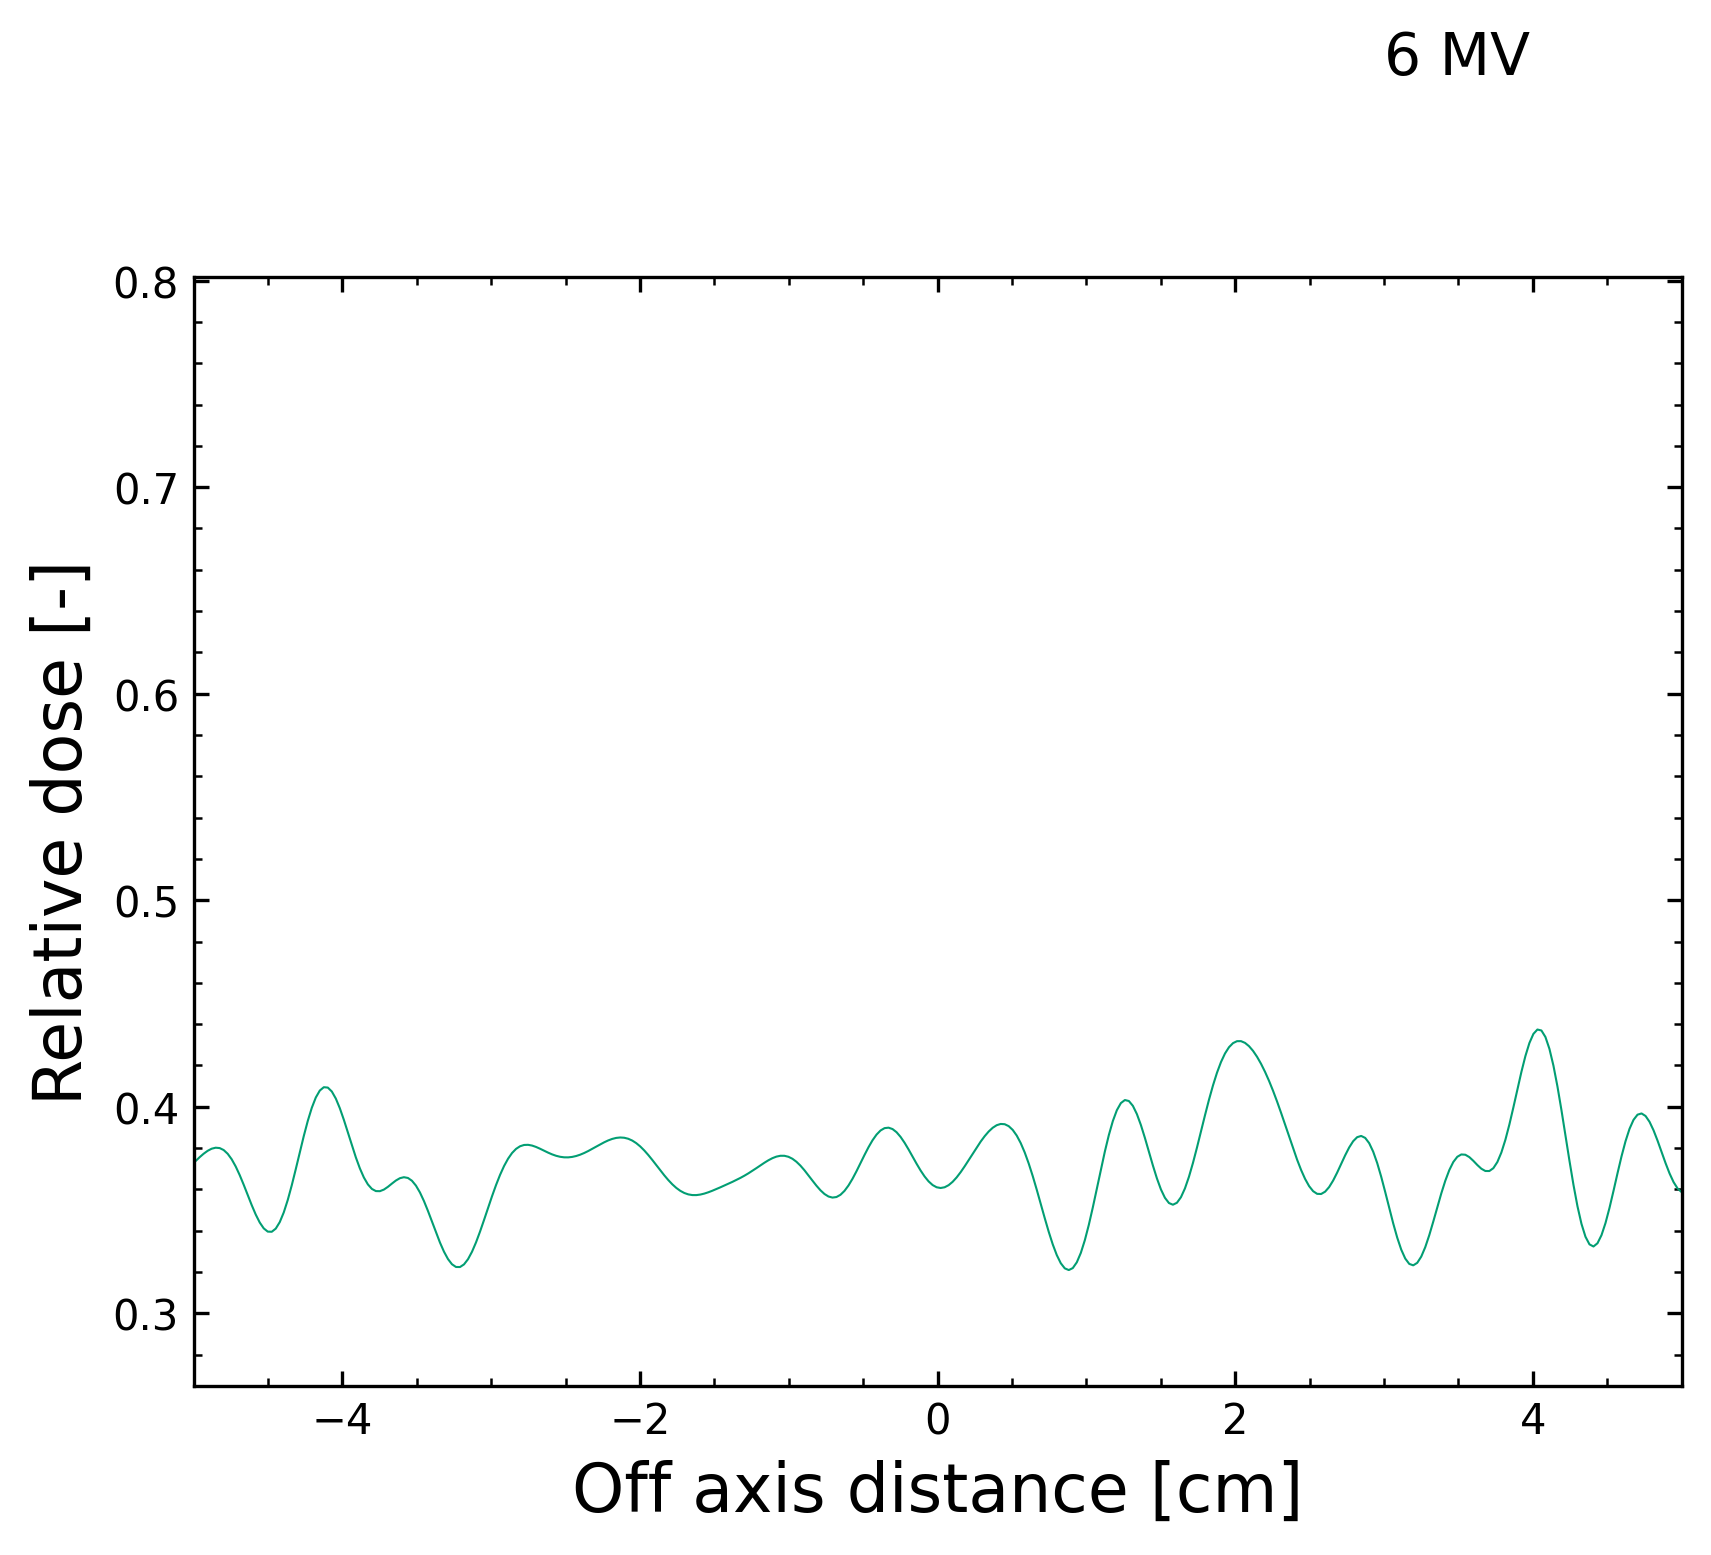
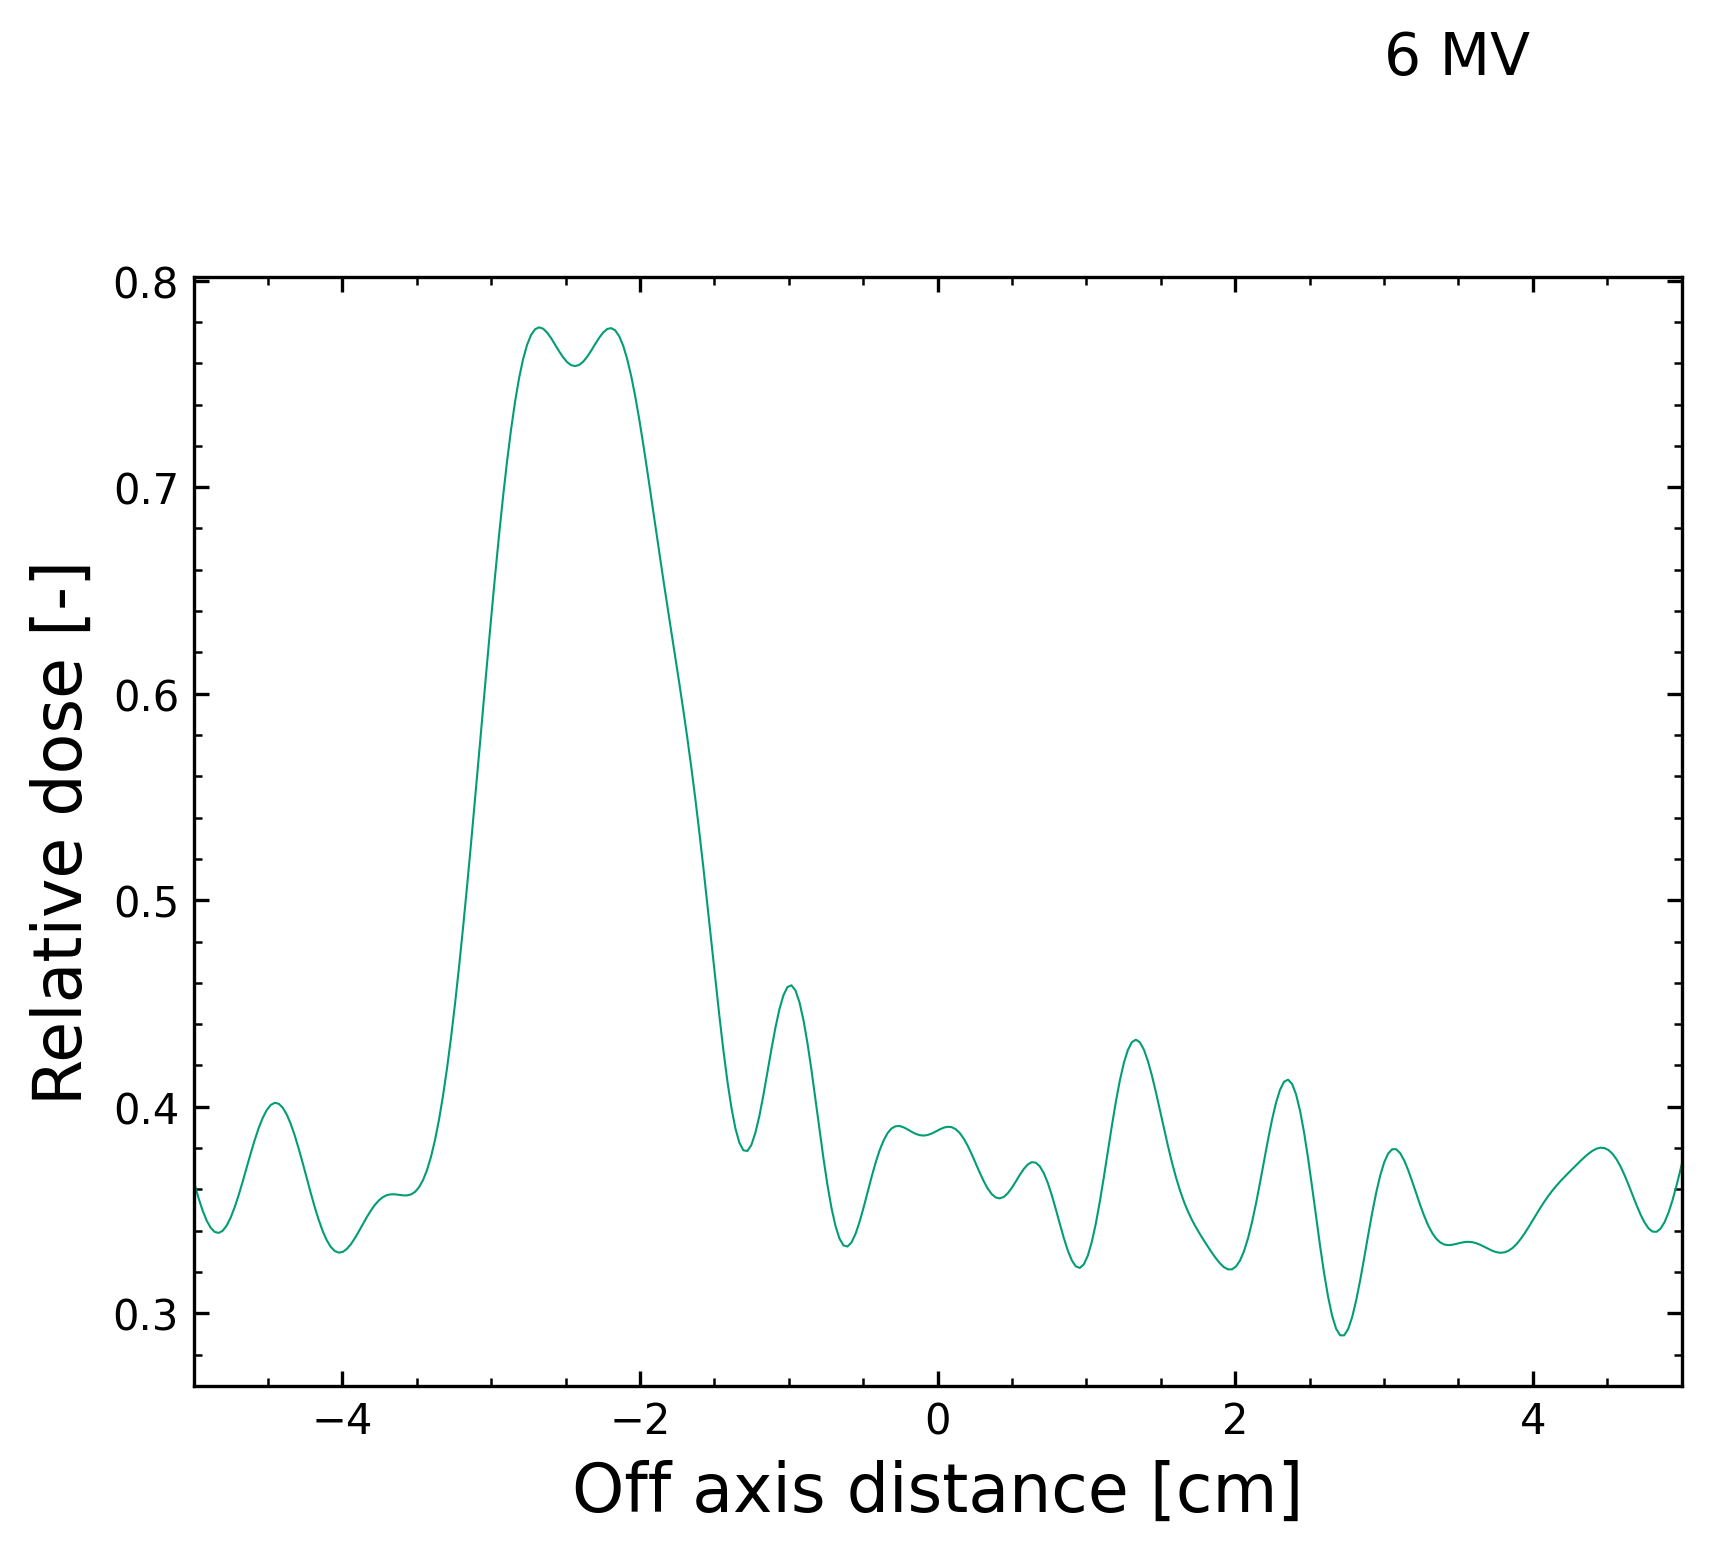
Preparing to presentation

diff --git a/LINAC/test.py b/LINAC/test.py
@@ -5,6 +5,7 @@ import matplotlib.pyplot as plt
 import glob
 from PIL import Image
 import scipy
+import seaborn as sns
 
 
 class Profile:
@@ -81,31 +82,28 @@ class Profile:
             os.makedirs(directory)
         for index, intensity in enumerate(intensity_profiles):
             relative_intensity = intensity / self.grayvalues()[1][index]
+            # Calcul de la transformée de Fourier discrète (DFT)
+            coeff_dft = np.fft.rfft(relative_intensity)
+            # Calcul du seuil pour conserver les premiers 10% des coefficients
+            dft_thresholded_10 = coeff_dft.copy()
+            ten_percent = int(0.05*len(dft_thresholded_10))
+            # Application du seuil pour ramener à zéro les 90% restants
+            dft_thresholded_10[ten_percent:] = 0
+            reconstructed_data = np.fft.irfft(dft_thresholded_10)
+            off_ax_position_pix = np.linspace(0, len(reconstructed_data), len(reconstructed_data))
+            off_ax_position_cm = off_ax_position_pix * self.pixel_converter[0] /10
             fig, ax = plt.subplots()
-            ax.plot(relative_intensity, color="black", linewidth="0.5")
+            palette = sns.color_palette("colorblind")
+            ax.plot(off_ax_position_cm, reconstructed_data, color=palette[0], linewidth="0.5")
             ax.minorticks_on()
             ax.tick_params(top=True, right=True, axis="both", which="both", direction='in')
             ax.set_ylabel("Percentage depth dose [-]", fontsize=16)
-            ax.set_xlabel("Distance [pixel]", fontsize=16)
+            ax.set_xlabel("Depth [cm]", fontsize=16)
             numbers = "".join(filter(str.isdigit, self.energy))
             text = "".join(filter(str.isalpha, self.energy))
-            ax.text(x=3, y=0.9, s="{0} {1}".format(numbers, text), fontsize=14)
+            ax.text(x=20, y=0.9, s="{0} {1}".format(numbers, text), fontsize=14)
             plt.savefig("{0}/{1}.png".format(directory, self.get_file_names()[index]), bbox_inches="tight", dpi=300)
             plt.close(fig)
-
-            coeff_dft = scipy.fft.dct(relative_intensity, norm="ortho")
-            two_percent = int(0.04 * len(coeff_dft))
-            dct_thresholded = coeff_dft.copy()
-            dct_thresholded[two_percent:] = 0
-            reconstructed_prices_2_dct = scipy.fft.idct(dct_thresholded, norm="ortho")
-            # Tracer le spectre de fréquence de Fourier
-            fig = plt.subplots(figsize=(16,8))
-            plt.plot(reconstructed_prices_2_dct, linestyle="solid")
-            plt.title("Spectre de fréquence à la suite de la transformée de Fourier Directe", fontsize=20, y=-0.2)
-            plt.xlabel("Fréquence [-]", fontsize=16, loc='right')
-            plt.ylabel("Amplitude [-]", fontsize=16, loc='top')
-            plt.minorticks_on()
-            plt.show()
 
 date = "2023-06-27"
 energy = "6MV"

diff --git a/LINAC/images_converter.py b/LINAC/images_converter.py
@@ -127,11 +127,13 @@ class Converter:
             calib_image_index (int): L'indice de l'image de calibration à montrer dans l'ordre qu'elle est dans le fichier d'origine.
         """
         corners = self.convert_pixel2mm(calib_image_index)[3]
-        target_square_corner = corners[target_square_index]
+        target_square_corner1 = corners[target_square_index]
+        target_square_corner2 = corners[target_square_index+1]
         central_axis = self.central_axis()[calib_image_index]
 
         # Extraire les coordonnées du coin cible
-        x, y = target_square_corner.ravel().astype(int)
+        x1, y1 = target_square_corner1.ravel().astype(int)
+        x2, y2 = target_square_corner2.ravel().astype(int)
 
         # Normaliser l'image de 16 bits à une plage de 0-255 (8 bits)
         normalized_image = cv.normalize(self.convert_fits2png()[calib_image_index], None, 0, 255, cv.NORM_MINMAX, dtype=cv.CV_8U)
@@ -140,7 +142,8 @@ class Converter:
         image_color = cv.cvtColor(normalized_image, cv.COLOR_GRAY2BGR)
 
         # Dessiner un point sur le coin cible
-        cv.circle(image_color, (x, y), 4, (0, 0, 255), -1)
+        cv.circle(image_color, (x1, y1), 4, (0, 0, 255), -1)
+        cv.circle(image_color, (x2, y2), 4, (0, 0, 255), -1)
 
         # Dessiner une ligne verticale sur l'axe central
         cv.line(image_color, (central_axis, 0), (central_axis, image_color.shape[0]), (0, 255, 0), 1)

diff --git a/LINAC/image_analysis.py b/LINAC/image_analysis.py
@@ -75,8 +75,7 @@ class Profile:
         for index, intensity in enumerate(intensity_profiles):
             relative_intensity = intensity / self.grayvalues()[1][index]
             reconstructed_relative_intensity = self.curve_fft(relative_intensity)
-            middle = np.argmin(abs(np.gradient(reconstructed_relative_intensity, 10)))
-            off_ax_position_pix = np.linspace(-middle, len(reconstructed_relative_intensity) - middle, len(reconstructed_relative_intensity))
+            off_ax_position_pix = np.linspace(-len(reconstructed_relative_intensity) / 2, len(reconstructed_relative_intensity) / 2, len(reconstructed_relative_intensity))
             off_ax_position_cm = off_ax_position_pix * self.pixel_converter[0] /10
             fig, ax = plt.subplots()
             palette = sns.color_palette("colorblind")
